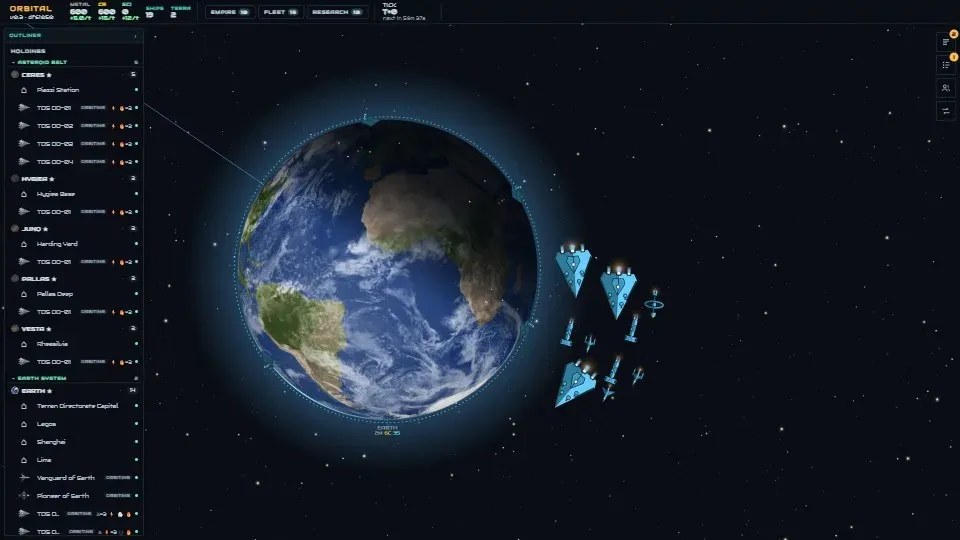
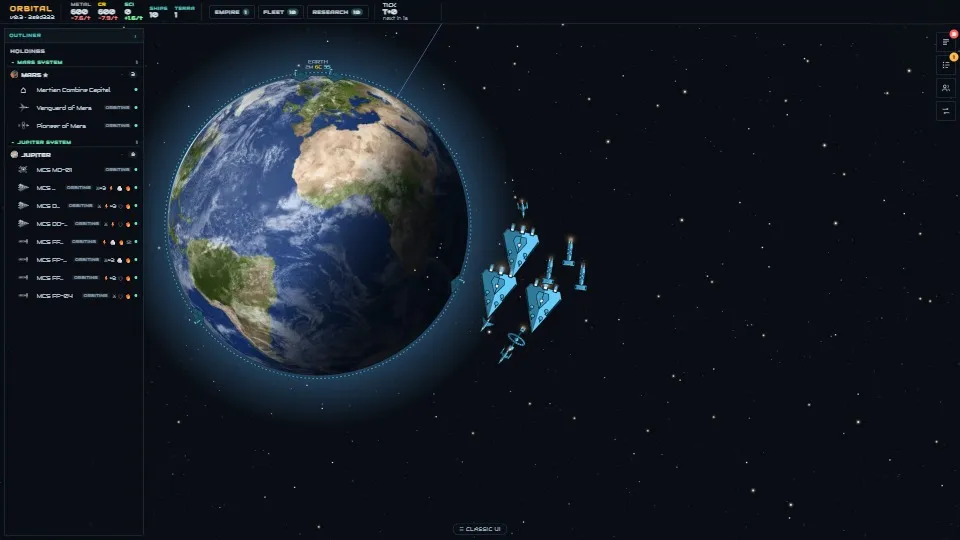
Landing, sign-in and press kit: the new gold Mega Destroyer clip
One continuous take: a player sends the Mega from Jupiter, Hygiea's
squadron rides it in, a slow arrival, Earth burns and the Mega is
destroyed (with its explosion). Caption, alt text and press-kit length
match it. (The press-kit GIF follows in its own push.)

diff --git a/src/i18n/parts/pt-BR/guide.ts b/src/i18n/parts/pt-BR/guide.ts
@@ -290,8 +290,8 @@ export const guide: Catalog = {
   'landing.hero.play': 'Jogar grátis',
   'landing.hero.see': 'Veja como se joga',
   'landing.hero.glance': 'Resumo',
-  'landing.hero.caption': "Gravado no jogo: um Mega Destróier sai de Júpiter, abre caminho pela frota da Terra e incendeia a Terra.",
-  'landing.hero.clipAlt': "A frota azul da Terra espera em órbita. Um Mega Destróier e sua escolta vermelha partem de Júpiter e atravessam o Sistema Solar; as naves da Terra os interceptam em pleno voo, a batalha chega à órbita da Terra e o feixe do Mega Destróier queima o planeta.",
+  'landing.hero.caption': "Gravado no jogo: um Mega Destróier é enviado de Júpiter, incendeia a Terra e é destruído pela frota da Terra.",
+  'landing.hero.clipAlt': "A frota azul da Terra espera em órbita. Em Júpiter, um jogador seleciona um Mega Destróier e sua escolta vermelha e os envia à Terra. Um esquadrão azul do cinturão de asteroides os intercepta em pleno voo e chega ao lado deles; na órbita da Terra, o feixe do Mega Destróier queima o planeta, e a frota da Terra o destrói.",
   'landing.loop.kicker': 'Como funciona',
   'landing.loop.title': 'O jogo continua rodando quando você sai',
   'landing.loop.sub': 'Os ticks são resolvidos no servidor num cronograma real. Você não precisa estar online quando isso acontece, só quando importa.',

diff --git a/src/i18n/parts/en/guide.ts b/src/i18n/parts/en/guide.ts
@@ -288,8 +288,8 @@ export const guide = {
   'landing.hero.play': 'Play for Free',
   'landing.hero.see': 'See how it plays',
   'landing.hero.glance': 'At a glance',
-  'landing.hero.caption': "Recorded in the game: a Mega Destroyer crosses from Jupiter, fights through Earth’s fleet and sets Earth burning.",
-  'landing.hero.clipAlt': "Earth’s blue fleet waits in orbit. A Mega Destroyer and its red escort burn from Jupiter across the solar system, Earth’s ships intercept them in flight, the battle reaches Earth’s orbit, and the Mega Destroyer’s beam scorches the planet.",
+  'landing.hero.caption': "Recorded in the game: a Mega Destroyer is sent from Jupiter, sets Earth burning and is destroyed by Earth’s fleet.",
+  'landing.hero.clipAlt': "Earth’s blue fleet waits in orbit. At Jupiter a player boxes a Mega Destroyer and its red escort and sends them to Earth. A blue squadron from the asteroid belt intercepts them in flight and rides in beside them; in Earth’s orbit the Mega Destroyer’s beam scorches the planet, and Earth’s fleet destroys it.",
   'landing.loop.kicker': 'How it plays',
   'landing.loop.title': 'The game keeps running when you log off',
   'landing.loop.sub': 'Ticks resolve on the server on a real schedule. You don’t need to be online when they do, only when it matters.',

diff --git a/src/components/PressKit.tsx b/src/components/PressKit.tsx
@@ -131,7 +131,7 @@ const GROUPS: Array<{ title: string; ratio: string; size: string; wide: boolean;
 // games on production, frame by frame on a stepped clock. Files in
 // public/clips/: <name>.gif to download, <name>.webp as the preview.
 const CLIPS: Array<{ name: string; title: string; secs: number }> = [
-  { name: 'mega-destroyer-jupiter-to-earth', title: 'A Mega Destroyer crosses from Jupiter and strikes Earth', secs: 28 },
+  { name: 'mega-destroyer-jupiter-to-earth', title: 'A Mega Destroyer is sent from Jupiter, strikes Earth and is destroyed', secs: 43 },
   { name: 'mega-destroyer-obliterates-callisto', title: 'A Mega Destroyer obliterates Callisto', secs: 8 },
   { name: 'mega-destroyer-sterilises-venus-full', title: 'A living Venus sterilised', secs: 5 },
   { name: 'battle-of-the-dyson-sphere-full', title: 'Four empires fight for the Dyson Sphere', secs: 17 },
